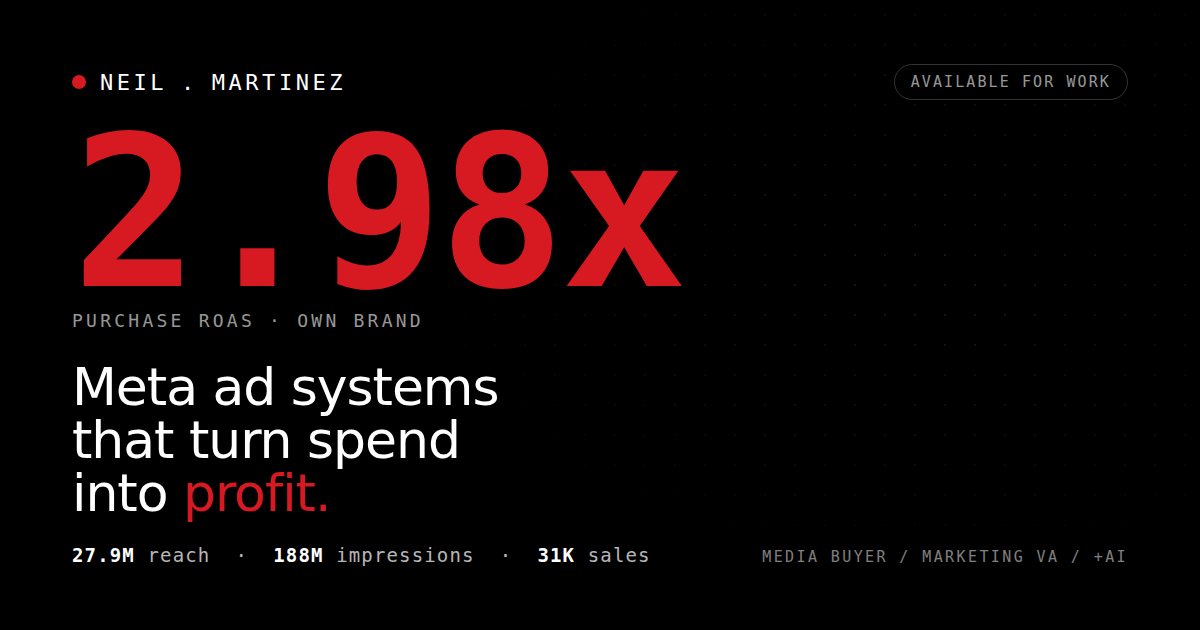
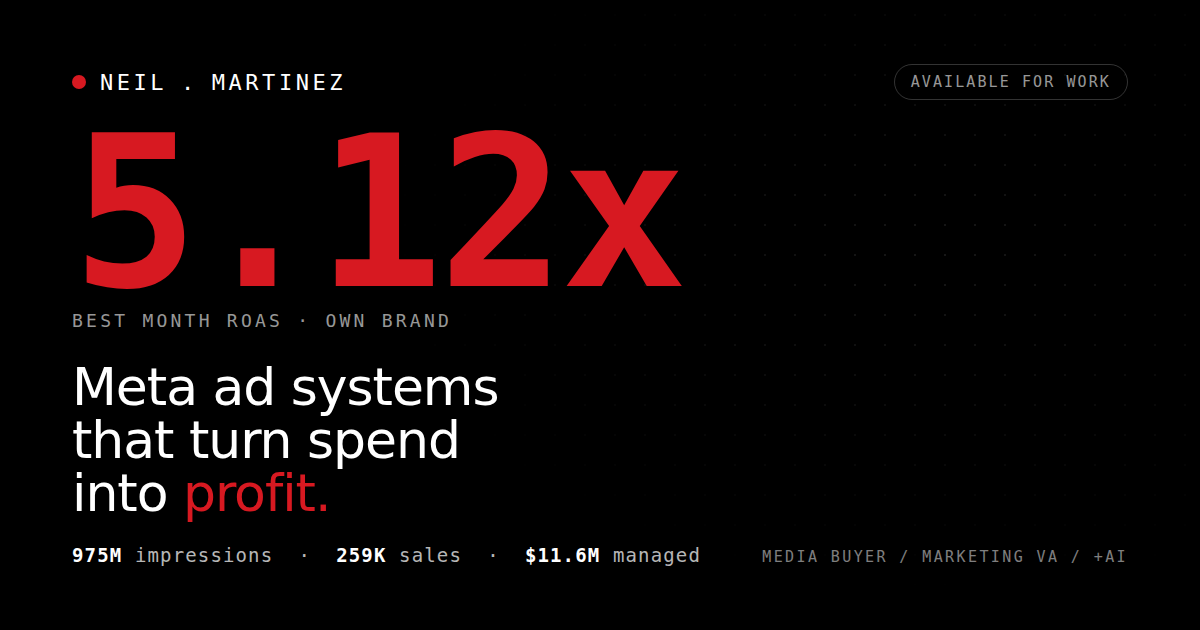
Round 3: real current client roster from ad-account data
Rebuild the Work section around Neil's real, current accounts (numbers
read from Meta Ads Manager screenshots):
- HK eCommerce brand: 1.97x blended ROAS vs 1.70 target, HK$42M, 14
  markets, ads localized with Manus + market landing pages.
- US eCommerce brand: 0.92x vs 0.60 target, $11.6M, 127,606 purchases.
- Gifty PH (Neil's own gifting brand): 2.31x avg / 5.12x best ROAS.
- "Also worked with" roster: two PH aesthetic clinics (<P25 per
  message), dropshipping, a social media agency, an Australian coaching
  brand.

Refresh the proof bar (975M impressions, 259K purchases, 5.12x best
ROAS, $11.6M managed), rebuild the experience timeline (anonymized
except the own brand), widen the hero to US/HK/PH, add Localization +
Landing pages skills, cite the real HK localization work in the AI
section, and update the og share card + meta description.

Claude-Session: https://claude.ai/code/session_01BMzGmQVW5SRBVZY2jAzaPN

diff --git a/index.html b/index.html
@@ -4,7 +4,7 @@
   <meta charset="UTF-8" />
   <meta name="viewport" content="width=device-width, initial-scale=1.0" />
   <title>Neil Martinez, Media Buyer and Marketing VA</title>
-  <meta name="description" content="Neil Martinez, a Meta ads media buyer and marketing VA. I build ad systems that turn spend into profit, with AI-made creative and landing pages. 2.98x ROAS, 31K sales, 188M impressions." />
+  <meta name="description" content="Neil Martinez, a Meta ads media buyer and marketing VA. I build ad systems that turn spend into profit, with AI-localized ads and landing pages. 975M impressions, 259K sales, up to 5.12x ROAS." />
   <meta name="author" content="Neil Angelo Martinez" />
 
   <!-- Open Graph -->
@@ -75,9 +75,9 @@
         </p>
         <h1>Meta ad systems that turn spend into <span class="amp">profit.</span></h1>
         <p class="hero__sub">
-          I'm Neil. I run Meta ads for eCommerce, service, and tech brands in the US and the Philippines.
-          Two years in, I've built ad systems that bring in leads and sales at a profit. I also use AI to
-          make the ad images and build the landing pages, so tests go live faster.
+          I'm Neil. I run Meta ads for eCommerce and service brands in the US, Hong Kong, and the
+          Philippines. Two years in, I've built ad systems that bring in leads and sales at a profit. I also
+          use AI to localize ads and build landing pages, so tests go live faster.
         </p>
         <div class="hero__cta">
           <a class="btn btn--primary" href="mailto:neilangelomartinez@gmail.com">Email me <span class="arw">↗</span></a>
@@ -86,7 +86,7 @@
 
         <div class="hero__figure">
           <div class="hero__bignum"><span data-to="2.98" data-decimals="2">0.00</span>x</div>
-          <p class="hero__bignum-cap">Purchase ROAS on my own brand. ₱1.8M in revenue from ₱633K in spend, at a 60% profit margin.</p>
+          <p class="hero__bignum-cap">Best 6-month ROAS on Gifty PH, my own gifting brand, at a 60% profit margin.</p>
         </div>
       </div>
     </section>
@@ -95,20 +95,20 @@
     <section class="proof" aria-label="Key results">
       <div class="proof__grid">
         <div class="kpi">
-          <div class="kpi__num"><span data-to="27.9" data-decimals="1">0</span><span class="u">M</span></div>
-          <div class="kpi__label">Total reach</div>
+          <div class="kpi__num"><span data-to="975" data-decimals="0">0</span><span class="u">M</span></div>
+          <div class="kpi__label">Impressions delivered</div>
         </div>
         <div class="kpi">
-          <div class="kpi__num"><span data-to="188" data-decimals="0">0</span><span class="u">M</span></div>
-          <div class="kpi__label">Impressions</div>
-        </div>
-        <div class="kpi">
-          <div class="kpi__num"><span data-to="31" data-decimals="0">0</span><span class="u">K</span></div>
+          <div class="kpi__num"><span data-to="259" data-decimals="0">0</span><span class="u">K</span></div>
           <div class="kpi__label">Purchases driven</div>
         </div>
         <div class="kpi">
-          <div class="kpi__num"><span data-to="4.13" data-decimals="2">0</span><span class="u">x</span></div>
-          <div class="kpi__label">Best campaign ROAS</div>
+          <div class="kpi__num"><span data-to="5.12" data-decimals="2">0</span><span class="u">x</span></div>
+          <div class="kpi__label">Best month ROAS</div>
+        </div>
+        <div class="kpi">
+          <div class="kpi__num"><span class="u">$</span><span data-to="11.6" data-decimals="1">0</span><span class="u">M</span></div>
+          <div class="kpi__label">US ad spend managed</div>
         </div>
       </div>
     </section>
@@ -153,125 +153,139 @@
           <h2>Handled ad accounts &amp; results</h2>
         </div>
 
-        <!-- CASE 1 - US Tech Brand (scale) -->
+        <!-- CASE 1 - HK eCommerce (flagship) -->
         <article class="case reveal">
           <div class="case__head">
             <div>
-              <h3 class="case__title">U.S. Tech Brand: buying at scale</h3>
-              <p class="case__tagline">Meta Ads Specialist · full-time · 2024</p>
+              <h3 class="case__title">HK eCommerce brand: scaling across markets</h3>
+              <p class="case__tagline">Media buyer &amp; localization · since Jan 2026</p>
             </div>
-            <span class="case__badge">Scale · Multi-platform</span>
+            <span class="case__badge">Localization · ABO · 14 markets</span>
           </div>
           <div class="case__body">
             <dl class="case__narrative">
               <div class="cn-row">
                 <dt>Challenge</dt>
-                <dd>Win a lot of new customers for a US tech brand, and keep the cost per sale low across Meta, Google, Microsoft, and Amazon Ads.</dd>
+                <dd>Grow a Hong Kong eCommerce brand across many countries and beat a 1.70 ROAS target.</dd>
               </div>
               <div class="cn-row">
                 <dt>What I did</dt>
-                <dd>Set up and watched the campaigns, tuned the ads to hit targets, and sent daily numbers, weekly creative reviews, and post-purchase survey notes to guide the plan.</dd>
+                <dd>I set up my own campaigns with an ABO focus and optimize everything. I localize the ads for each market with Manus and build landing pages to match, running about 10 campaigns across 14 ad accounts.</dd>
               </div>
               <div class="cn-row cn-row--result">
                 <dt>Result</dt>
-                <dd>Ran the ads at scale. 27.9M reach and 188M impressions, which drove 31,000 sales.</dd>
+                <dd>HK$42M in spend at a 1.97x blended ROAS, above the 1.70 target, with 129,671 purchases and 263M impressions.</dd>
               </div>
             </dl>
             <div class="terminal">
-              <div class="terminal__bar"><span class="d"></span><span class="d"></span><span class="d"></span><span class="t">ads-manager · account-summary</span></div>
+              <div class="terminal__bar"><span class="d"></span><span class="d"></span><span class="d"></span><span class="t">ads-manager · hk-markets</span></div>
               <table class="tbl">
                 <thead><tr><th>Metric</th><th>Value</th></tr></thead>
                 <tbody>
-                  <tr><td>Reach</td><td>27.9M</td></tr>
-                  <tr><td>Impressions</td><td>188M</td></tr>
-                  <tr class="win"><td>Purchases</td><td class="roas">31,000</td></tr>
-                  <tr><td>Reporting</td><td>Daily + Weekly</td></tr>
+                  <tr><td>Target ROAS</td><td>1.70</td></tr>
+                  <tr class="win"><td>Achieved ROAS</td><td class="roas">1.97</td></tr>
+                  <tr><td>Best month</td><td class="roas">2.47x</td></tr>
+                  <tr><td>Ad spend</td><td>HK$42M+</td></tr>
+                  <tr><td>Purchases</td><td>129,671</td></tr>
                 </tbody>
-                <tfoot><tr><td>Platforms</td><td>Meta · Google · MSFT · Amazon</td></tr></tfoot>
+                <tfoot><tr><td>Markets</td><td>14 · localized with Manus</td></tr></tfoot>
               </table>
             </div>
           </div>
         </article>
 
-        <!-- CASE 2 - Own Brand -->
+        <!-- CASE 2 - US eCommerce -->
         <article class="case reveal">
           <div class="case__head">
             <div>
-              <h3 class="case__title">Own Brand: a profitable store from scratch</h3>
-              <p class="case__tagline">Freelance brand owner · 2025</p>
+              <h3 class="case__title">US eCommerce brand: optimizing at scale</h3>
+              <p class="case__tagline">Meta Ads Specialist · current</p>
             </div>
-            <span class="case__badge">CBO · Scaling</span>
+            <span class="case__badge">Optimization · Daily reporting</span>
           </div>
           <div class="case__body">
             <dl class="case__narrative">
               <div class="cn-row">
                 <dt>Challenge</dt>
-                <dd>Start my own brand and grow it at a profit, doing all of it myself: strategy, creative, and tracking.</dd>
+                <dd>Keep a large US eCommerce account above a 0.60 ROAS target while it spends into the millions.</dd>
               </div>
               <div class="cn-row">
                 <dt>What I did</dt>
-                <dd>Ran the ads for six months: testing creative, building CBO campaigns, scaling, and tracking results. I set up a simple system to keep fresh creative coming.</dd>
+                <dd>I handle the Meta upload, daily reporting, and daily optimization within the manager's rules. I run everything on the account except ad-set budget changes.</dd>
               </div>
               <div class="cn-row cn-row--result">
                 <dt>Result</dt>
-                <dd>A steady 2.98x ROAS at a 60% profit margin. ₱1.8M in sales from just over ₱633K in spend.</dd>
+                <dd>$11.6M in spend at a 0.92x ROAS, above the 0.60 target, with 127,606 purchases and 695M impressions.</dd>
               </div>
             </dl>
             <div class="terminal">
-              <div class="terminal__bar"><span class="d"></span><span class="d"></span><span class="d"></span><span class="t">ads-manager · own-brand</span></div>
+              <div class="terminal__bar"><span class="d"></span><span class="d"></span><span class="d"></span><span class="t">ads-manager · us-account</span></div>
               <table class="tbl">
                 <thead><tr><th>Metric</th><th>Value</th></tr></thead>
                 <tbody>
-                  <tr><td>Ad spend</td><td>₱633K</td></tr>
-                  <tr><td>Purchase value</td><td>₱1.8M</td></tr>
-                  <tr class="win"><td>Purchase ROAS</td><td class="roas">2.98x</td></tr>
-                  <tr><td>Profit margin</td><td class="roas">60%</td></tr>
+                  <tr><td>Target ROAS</td><td>0.60</td></tr>
+                  <tr class="win"><td>Achieved ROAS</td><td class="roas">0.92</td></tr>
+                  <tr><td>Ad spend</td><td>$11.6M</td></tr>
+                  <tr><td>Purchases</td><td>127,606</td></tr>
+                  <tr><td>Impressions</td><td>695M</td></tr>
                 </tbody>
-                <tfoot><tr><td>Duration</td><td>6 months</td></tr></tfoot>
+                <tfoot><tr><td>CPC</td><td>$1.05</td></tr></tfoot>
               </table>
             </div>
           </div>
         </article>
 
-        <!-- CASE 3 - PH Dropshipping -->
+        <!-- CASE 3 - Gifty PH (own brand, named) -->
         <article class="case reveal">
           <div class="case__head">
             <div>
-              <h3 class="case__title">PH Dropshipping: test and scale on a budget</h3>
-              <p class="case__tagline">Project basis · Sept to Dec 2024</p>
+              <h3 class="case__title">Gifty PH: my own gifting brand</h3>
+              <p class="case__tagline">Founder &amp; media buyer · Philippines</p>
             </div>
-            <span class="case__badge">ABO + CBO</span>
+            <span class="case__badge">Owner · eCommerce · PH</span>
           </div>
           <div class="case__body">
             <dl class="case__narrative">
               <div class="cn-row">
                 <dt>Challenge</dt>
-                <dd>Bring in sales at a profit for a Philippine dropshipping brand on a small, fixed budget.</dd>
+                <dd>Build and grow my own gifting brand at a profit, owning every part from strategy to creative to tracking.</dd>
               </div>
               <div class="cn-row">
                 <dt>What I did</dt>
-                <dd>Ran several test and scale campaigns with both ABO and CBO setups. Kept the cost per sale in profit while lifting CTR and holding CPC down.</dd>
+                <dd>I run all the ads myself: testing creative, building campaigns, scaling, and tracking results. One 6-month stretch held a 2.98x ROAS at a 60% profit margin.</dd>
               </div>
               <div class="cn-row cn-row--result">
                 <dt>Result</dt>
-                <dd>126 sales at a 3.48x average ROAS. The best campaign hit 4.13x, with CTRs near 2%.</dd>
+                <dd>₱3.34M in sales from ₱1.44M in spend, a 2.31x average ROAS, with the best month at 5.12x.</dd>
               </div>
             </dl>
             <div class="terminal">
-              <div class="terminal__bar"><span class="d"></span><span class="d"></span><span class="d"></span><span class="t">ads-manager · dropshipping-ph</span></div>
+              <div class="terminal__bar"><span class="d"></span><span class="d"></span><span class="d"></span><span class="t">ads-manager · gifty-ph</span></div>
               <table class="tbl">
                 <thead><tr><th>Metric</th><th>Value</th></tr></thead>
                 <tbody>
-                  <tr><td>Purchases</td><td>126</td></tr>
-                  <tr><td>Avg ROAS</td><td class="roas">3.48x</td></tr>
-                  <tr class="win"><td>Best ROAS</td><td class="roas">4.13x</td></tr>
-                  <tr><td>Avg CTR</td><td>~2.0%</td></tr>
+                  <tr><td>Ad spend</td><td>₱1.44M</td></tr>
+                  <tr><td>Purchase value</td><td>₱3.34M</td></tr>
+                  <tr><td>Avg ROAS</td><td class="roas">2.31x</td></tr>
+                  <tr class="win"><td>Best month</td><td class="roas">5.12x</td></tr>
+                  <tr><td>Purchases</td><td>1,852</td></tr>
                 </tbody>
-                <tfoot><tr><td>Structure</td><td>ABO test · CBO scale</td></tr></tfoot>
+                <tfoot><tr><td>Best 6 months</td><td>2.98x · 60% margin</td></tr></tfoot>
               </table>
             </div>
           </div>
         </article>
+
+        <!-- Also worked with (compact roster) -->
+        <div class="section-head reveal" style="margin-top: var(--s-wide);">
+          <p class="section-idx">Also worked with</p>
+        </div>
+        <div class="roster reveal">
+          <div class="rost"><p class="rost__h">Two PH aesthetic clinics</p><p class="rost__m">Message campaigns · ₱22–₱23 per conversation (target under ₱25)</p></div>
+          <div class="rost"><p class="rost__h">Dropshipping brand (PH)</p><p class="rost__m">2024 · 3.48x avg / 4.13x best ROAS</p></div>
+          <div class="rost"><p class="rost__h">Social media agency</p><p class="rost__m">Lead gen on Instant Forms &amp; Messenger · ~1 year</p></div>
+          <div class="rost"><p class="rost__h">Australian coaching brand</p><p class="rost__m">Paid social · ~6 months</p></div>
+        </div>
       </div>
     </section>
 
@@ -301,7 +315,7 @@
           <div class="ai-card">
             <p class="ai-card__k">AI Landing Pages</p>
             <h3 class="ai-card__h">From brief to live page in hours</h3>
-            <p class="ai-card__p">I build landing pages with Manus and Claude Code. The page matches the ad, so paid clicks land on a page made to sell.</p>
+            <p class="ai-card__p">I build landing pages with Manus and Claude Code, and localize ads for each market. I do this now for a Hong Kong brand across 14 markets, so every region gets a page that matches its ad.</p>
             <div class="ai-card__tools">
               <span class="chip chip--ai">Manus</span>
               <span class="chip chip--ai">Claude Code</span>
@@ -362,7 +376,7 @@
             </div>
             <div class="funnel__step funnel__step--result">
               <span class="funnel__n">03</span>
-              <div class="funnel__t"><b>3.48x ROAS</b><span>average across scaling campaigns</span></div>
+              <div class="funnel__t"><b>1.97x ROAS</b><span>blended across 14 HK markets</span></div>
             </div>
           </div>
         </div>
@@ -412,8 +426,8 @@
             <div class="chips"><span class="chip">ManyChat</span><span class="chip">Zapier</span><span class="chip">Shopify</span></div>
           </div>
           <div class="skillset">
-            <p class="skillset__k">Technical <span>/ 05</span></p>
-            <div class="chips"><span class="chip">Funnel setup</span><span class="chip">A/B testing</span><span class="chip">Audience targeting</span><span class="chip">Instant Forms</span><span class="chip">Pixel &amp; CAPI</span></div>
+            <p class="skillset__k">Technical <span>/ 07</span></p>
+            <div class="chips"><span class="chip">Funnel setup</span><span class="chip">Landing pages</span><span class="chip">Localization</span><span class="chip">A/B testing</span><span class="chip">Audience targeting</span><span class="chip">Instant Forms</span><span class="chip">Pixel &amp; CAPI</span></div>
           </div>
           <div class="skillset">
             <p class="skillset__k">Workspace <span>/ 04</span></p>
@@ -433,40 +447,65 @@
 
         <div class="reveal">
           <div class="xp">
-            <div class="xp__when"><b>2025 to now</b>Praised Media</div>
+            <div class="xp__when"><b>2026 to now</b>Hong Kong</div>
+            <div>
+              <h3 class="xp__role">Media Buyer &amp; Localization</h3>
+              <p class="xp__co">HK eCommerce brand</p>
+              <ul class="xp__pts">
+                <li>Set up my own campaigns with an ABO focus and optimize the whole account.</li>
+                <li>Localize ads for each market with Manus and build landing pages to match.</li>
+                <li>Run about 10 campaigns across 14 ad accounts; 1.97x blended ROAS against a 1.70 target.</li>
+              </ul>
+            </div>
+          </div>
+
+          <div class="xp">
+            <div class="xp__when"><b>2025 to now</b>Remote · US</div>
+            <div>
+              <h3 class="xp__role">Meta Ads Specialist</h3>
+              <p class="xp__co">US eCommerce brand</p>
+              <ul class="xp__pts">
+                <li>Handle Meta upload, daily reporting, and daily optimization within the manager's rules.</li>
+                <li>Run everything on the account except ad-set budget changes.</li>
+                <li>$11.6M in spend at a 0.92x ROAS, above the 0.60 target.</li>
+              </ul>
+            </div>
+          </div>
+
+          <div class="xp">
+            <div class="xp__when"><b>2025 to now</b>Philippines</div>
+            <div>
+              <h3 class="xp__role">Founder &amp; Media Buyer</h3>
+              <p class="xp__co">Gifty PH · my own brand</p>
+              <ul class="xp__pts">
+                <li>Own and run a gifting brand end to end: strategy, creative, and tracking.</li>
+                <li>2.31x average ROAS, best month 5.12x; a 2.98x, 60%-margin best-6-month stretch.</li>
+                <li>Built content systems to keep fresh creative coming.</li>
+              </ul>
+            </div>
+          </div>
+
+          <div class="xp">
+            <div class="xp__when"><b>~1 year</b>Remote</div>
             <div>
               <h3 class="xp__role">Meta Ads Manager</h3>
-              <p class="xp__co">Praised Media</p>
+              <p class="xp__co">Social media agency</p>
               <ul class="xp__pts">
-                <li>Run the strategy and day-to-day for lead-gen campaigns on Meta Instant Forms and Messenger.</li>
-                <li>Build the ad setup, write copy, upload creative, and track results with custom conversion events.</li>
-                <li>Send a weekly report on CPL, creative, and post-purchase results. Set up ManyChat to capture leads in Messenger.</li>
+                <li>Ran lead-gen campaigns on Meta Instant Forms and Messenger.</li>
+                <li>Built the ad setup, wrote copy, and tracked results with custom conversion events.</li>
+                <li>Set up ManyChat to capture leads in Messenger; sent weekly reports.</li>
               </ul>
             </div>
           </div>
 
           <div class="xp">
-            <div class="xp__when"><b>2025</b>Independent</div>
+            <div class="xp__when"><b>~6 months</b>Remote</div>
             <div>
-              <h3 class="xp__role">Freelance Brand Owner</h3>
-              <p class="xp__co">Own DTC brand</p>
+              <h3 class="xp__role">Media Buyer</h3>
+              <p class="xp__co">Australian coaching brand</p>
               <ul class="xp__pts">
-                <li>Ran the ads for six months: strategy, creative testing, and tracking.</li>
-                <li>Held a steady 2.98x ROAS at a 60% profit margin.</li>
-                <li>Did the CBO testing and scaling, and set up a system for fresh content.</li>
-              </ul>
-            </div>
-          </div>
-
-          <div class="xp">
-            <div class="xp__when"><b>2024</b>U.S. Tech Company</div>
-            <div>
-              <h3 class="xp__role">Marketing VA · Meta Ads Specialist</h3>
-              <p class="xp__co">U.S.-based tech brand</p>
-              <ul class="xp__pts">
-                <li>Set up campaigns, watched the spend, and tuned creative to hit targets.</li>
-                <li>Sent daily reports, weekly creative reviews, and post-purchase survey notes.</li>
-                <li>Helped review email campaigns and reported across Google, Microsoft, and Amazon Ads.</li>
+                <li>Ran paid social and lead-gen for a coaching brand.</li>
+                <li>Handled campaign setup, optimization, and reporting.</li>
               </ul>
             </div>
           </div>

diff --git a/assets/css/style.css b/assets/css/style.css
@@ -367,6 +367,13 @@ button { font-family: inherit; cursor: pointer; border: none; background: none; 
 .tbl tfoot td { color: var(--text-primary); border-top: 1px solid var(--line-strong); font-weight: 700; }
 .tbl .win td:first-child::before { content: "▸ "; color: var(--accent); }
 
+/* "Also worked with" roster */
+.roster { display: grid; grid-template-columns: repeat(2, 1fr); gap: var(--s-med); }
+.rost { border: 1px solid var(--line); border-radius: var(--radius); padding: 20px 22px; }
+.rost__h { font-size: 16px; font-weight: 500; color: var(--text-display); letter-spacing: -0.01em; }
+.rost__m { font-family: var(--ff-mono); font-size: 12px; letter-spacing: 0.03em; color: var(--text-secondary); margin-top: 8px; line-height: 1.5; }
+@media (max-width: 720px) { .roster { grid-template-columns: 1fr; } }
+
 /* ================================================================
    AI WORKFLOW
    ================================================================ */
